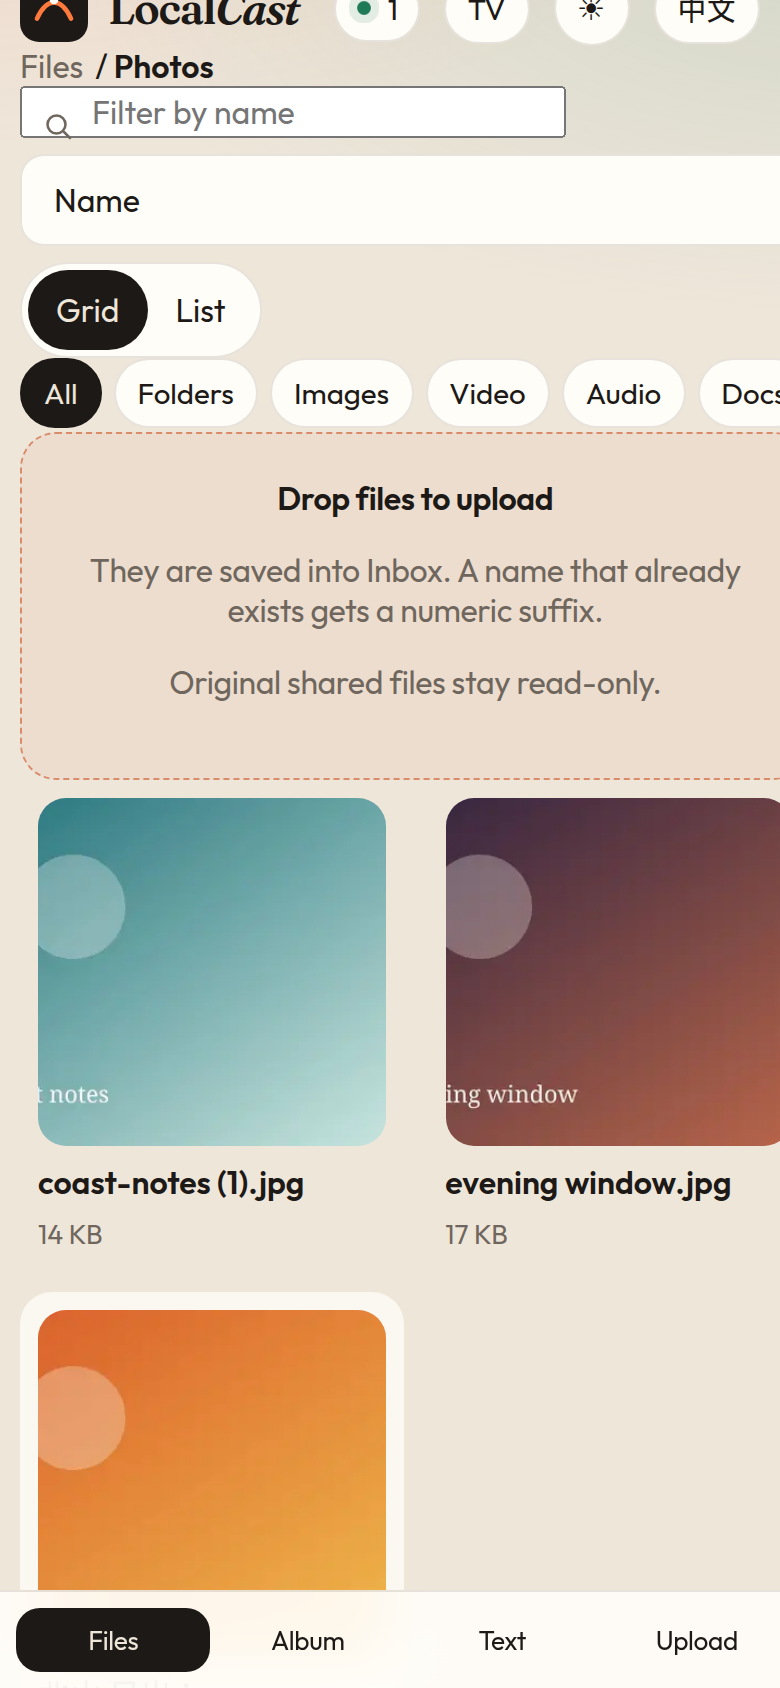
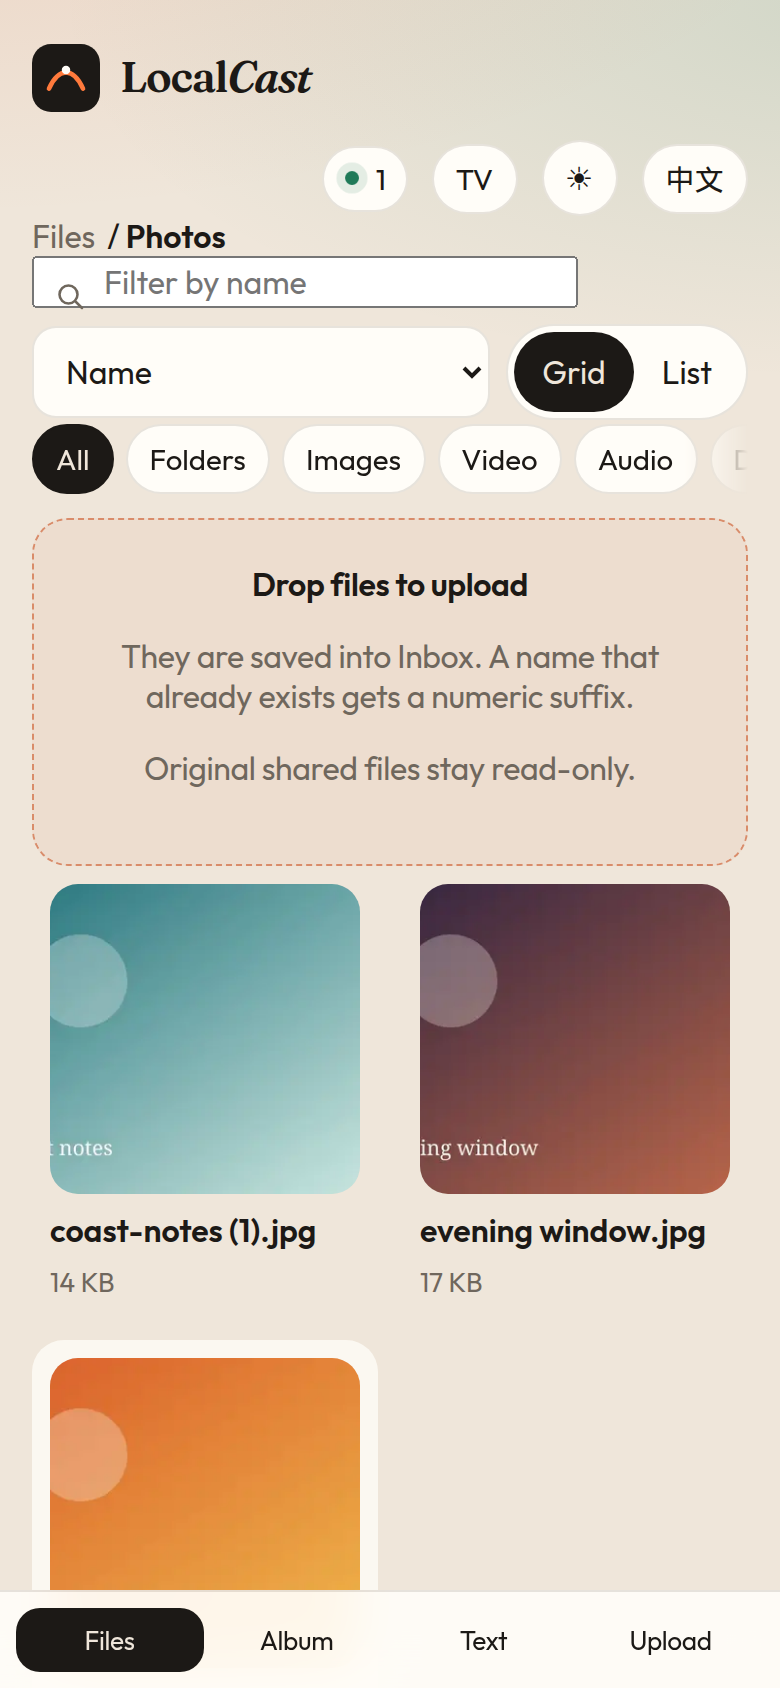
Fit the phone guest view inside the screen.
Stop the header, grid, and lightbox from overflowing a 375px or 390px viewport, give lightbox controls readable contrast, and add dark and TV screenshots.

diff --git a/web/src/styles.css b/web/src/styles.css
@@ -43,7 +43,7 @@
 }
 
 * { box-sizing: border-box; }
-html, body, #root { min-height: 100%; }
+html, body, #root { min-height: 100%; max-width: 100%; }
 body {
   margin: 0;
   font-family: var(--font);
@@ -64,8 +64,8 @@ a { color: inherit; }
 .topbar, .row, .spread, .cluster { display: flex; align-items: center; gap: 12px; }
 .topbar, .spread { justify-content: space-between; }
 .cluster { flex-wrap: wrap; }
-.wordmark { display: flex; align-items: center; gap: 10px; text-decoration: none; }
-.mark { width: 34px; height: 34px; color: var(--ink); }
+.wordmark { display: flex; align-items: center; gap: 10px; min-width: 0; text-decoration: none; line-height: 1; padding-block: 2px; }
+.mark { width: 34px; height: 34px; flex: none; display: block; color: var(--ink); }
 .word { font-family: var(--serif); font-weight: 560; font-size: 1.35rem; letter-spacing: -0.03em; }
 .word em { font-style: italic; font-weight: 560; }
 .kicker { margin: 0; color: var(--accent); font-size: 0.78rem; font-weight: 600; letter-spacing: 0.14em; text-transform: uppercase; }
@@ -93,7 +93,8 @@ h2 { font-family: var(--serif); font-weight: 560; letter-spacing: -0.03em; margi
   padding: 20px;
   backdrop-filter: blur(10px);
 }
-.stack { display: grid; gap: 14px; }
+.stack { display: grid; grid-template-columns: minmax(0, 1fr); gap: 14px; min-width: 0; }
+input[type="file"] { display: block; width: 100%; max-width: 100%; min-width: 0; }
 label span, .field-label { display: block; font-size: 0.82rem; color: var(--muted); margin-bottom: 6px; }
 input[type="text"], input[type="number"], select, textarea {
   width: 100%;
@@ -149,7 +150,7 @@ textarea { min-height: 96px; resize: vertical; }
 .toggle i { position: absolute; top: 3px; left: 3px; width: 22px; height: 22px; border-radius: 50%; background: white; transition: transform 0.15s ease; }
 .toggle[aria-pressed="true"] i { transform: translateX(18px); }
 
-.guest { width: min(1180px, calc(100% - 28px)); margin: 0 auto; padding: 18px 0 40px; }
+.guest { width: min(1180px, calc(100% - 28px)); margin: 0 auto; padding: 22px 0 40px; }
 .guest-grid { display: grid; grid-template-columns: 196px minmax(0, 1fr); gap: 18px; align-items: start; }
 .side { display: grid; gap: 8px; position: sticky; top: 16px; }
 .side a, .side button.nav {
@@ -161,15 +162,15 @@ textarea { min-height: 96px; resize: vertical; }
 .crumbs button { border: 0; background: transparent; padding: 0; color: var(--muted); }
 .crumbs button[aria-current="page"] { color: var(--ink); font-weight: 600; }
 .toolbar { display: flex; flex-wrap: wrap; gap: 8px; align-items: center; }
-.search { position: relative; flex: 1; min-width: 180px; }
+.search { position: relative; flex: 1 1 180px; min-width: 0; max-width: 100%; }
 .search svg { position: absolute; left: 10px; top: 11px; width: 18px; height: 18px; color: var(--muted); }
 .search input { padding-left: 34px; }
-.chips { display: flex; gap: 6px; overflow: auto; padding-bottom: 2px; }
+.chips { display: flex; flex-wrap: wrap; gap: 6px; max-width: 100%; padding: 2px 0 8px; }
 
-.file-grid { display: grid; grid-template-columns: repeat(auto-fill, minmax(148px, 1fr)); gap: 12px; }
+.file-grid { display: grid; grid-template-columns: repeat(auto-fill, minmax(148px, 1fr)); gap: 12px; min-width: 0; }
 .tile {
   display: grid; gap: 8px; text-align: left; padding: 8px; border-radius: 16px;
-  border: 1px solid transparent; background: transparent; width: 100%;
+  border: 1px solid transparent; background: transparent; width: 100%; min-width: 0;
 }
 .tile:hover, .list-row:hover { background: color-mix(in srgb, var(--surface-solid) 75%, transparent); }
 .thumb, .thumb-fallback {
@@ -200,13 +201,21 @@ textarea { min-height: 96px; resize: vertical; }
 .note pre { margin: 8px 0; white-space: pre-wrap; font-family: var(--font); }
 
 .lightbox {
-  position: fixed; inset: 0; z-index: 40; background: #100e0c; color: #f6f1ea;
-  display: grid; grid-template-rows: auto minmax(0, 1fr) auto; overflow: hidden;
+  position: fixed; inset: 0; z-index: 40; width: 100%; max-width: 100vw; background: #100e0c; color: #f6f1ea;
+  display: grid; grid-template-columns: minmax(0, 1fr); grid-template-rows: auto minmax(0, 1fr) auto; overflow: hidden;
 }
 body[data-lightbox="open"] .bottom-nav { display: none; }
-.lightbox header, .lightbox footer { display: flex; justify-content: space-between; gap: 12px; align-items: center; flex-wrap: wrap; padding: 14px 16px; }
-.stage { display: grid; place-items: center; min-height: 0; padding: 8px 54px 16px; }
-.stage img, .stage video, .stage iframe { max-width: min(1100px, 100%); max-height: calc(100vh - 190px); max-height: calc(100dvh - 190px); border: 0; background: #000; object-fit: contain; }
+.lightbox header, .lightbox footer {
+  display: flex; justify-content: space-between; gap: 10px 14px; align-items: center; flex-wrap: wrap;
+  min-width: 0; max-width: 100%; padding: 14px 16px;
+}
+.lightbox header .cluster { display: flex; flex-wrap: wrap; gap: 8px; min-width: 0; }
+.lightbox .btn, .lightbox a.btn {
+  background: #2a2622; color: #f6f1ea; border-color: rgba(246, 241, 234, 0.38);
+}
+.lightbox footer span { min-width: 0; overflow-wrap: anywhere; }
+.stage { position: relative; display: grid; place-items: center; min-width: 0; min-height: 0; width: 100%; max-width: 100%; padding: 8px 48px 12px; overflow: hidden; }
+.stage img, .stage video, .stage iframe { max-width: 100%; width: auto; max-height: calc(100dvh - 210px); border: 0; background: #000; object-fit: contain; }
 .stage iframe { width: min(900px, 100%); height: calc(100vh - 170px); background: white; }
 .stage pre { max-width: 800px; max-height: calc(100vh - 180px); overflow: auto; white-space: pre-wrap; background: #1b1916; padding: 16px; border-radius: 12px; }
 .unsupported { max-width: 460px; text-align: center; display: grid; gap: 10px; justify-items: center; }
@@ -231,14 +240,35 @@ body[data-lightbox="open"] .bottom-nav { display: none; }
 
 @media (max-width: 860px) {
   .lightbox header { flex-direction: column; align-items: stretch; }
-  .lightbox header .cluster { width: 100%; }
-  .lightbox header, .lightbox footer { padding: 12px; }
-  .stage { padding: 8px 12px 16px; }
+  .lightbox header .cluster, .lightbox footer { width: 100%; }
+  .lightbox header, .lightbox footer { padding: 12px 14px; }
+  .stage { padding: 8px 10px 12px; }
   .nav-arrow { width: 36px; height: 48px; }
+  .nav-arrow.prev { left: 4px; }
+  .nav-arrow.next { right: 4px; }
 
-  .layout, .guest-grid { grid-template-columns: 1fr; }
+  .layout, .guest-grid { grid-template-columns: minmax(0, 1fr); }
   .side { display: none; }
-  .guest { width: min(100% - 20px, 860px); padding-bottom: 96px; }
+  .guest {
+    width: 100%;
+    max-width: 100%;
+    min-width: 0;
+    padding: max(20px, env(safe-area-inset-top)) 16px 96px;
+  }
+  .guest > .topbar { flex-wrap: wrap; align-items: center; width: 100%; min-width: 0; }
+  .guest > .topbar .cluster { flex: 1 1 auto; justify-content: flex-end; min-width: 0; }
+  .guest main, .toolbar, .crumbs, .drop, .stack { min-width: 0; max-width: 100%; }
+  .toolbar { display: grid; grid-template-columns: minmax(0, 1fr) auto; }
+  .search { grid-column: 1 / -1; }
+  .toolbar select { min-width: 0; max-width: 100%; }
+  .chips {
+    flex-wrap: nowrap; overflow-x: auto; overscroll-behavior-x: contain;
+    padding: 2px 28px 12px 2px; scrollbar-width: thin; scroll-snap-type: x proximity;
+    mask-image: linear-gradient(to right, #000 calc(100% - 32px), transparent);
+  }
+  .chip { flex: none; scroll-snap-align: start; }
+  .file-grid, .album-grid { grid-template-columns: repeat(2, minmax(0, 1fr)); }
+  .tile b { overflow-wrap: anywhere; }
   .bottom-nav {
     display: grid; grid-template-columns: repeat(4, 1fr); position: fixed; left: 0; right: 0; bottom: 0; z-index: 10;
     background: color-mix(in srgb, var(--surface-solid) 92%, transparent);
@@ -253,7 +283,15 @@ body[data-lightbox="open"] .bottom-nav { display: none; }
 }
 
 body.tv { font-size: 1.2rem; }
-body.tv .file-grid, body.tv .album-grid { grid-template-columns: repeat(auto-fill, minmax(220px, 1fr)); gap: 16px; }
+body.tv .file-grid, body.tv .album-grid { grid-template-columns: repeat(auto-fill, minmax(min(100%, 220px), 1fr)); gap: 16px; }
 body.tv .tile, body.tv .list-row, body.tv .side a { min-height: 64px; }
 body.tv :focus { outline: 4px solid var(--focus); outline-offset: 4px; }
 body.tv .bottom-nav a { font-size: 1rem; padding: 12px 4px; }
+@media (max-width: 520px) {
+  body.tv { font-size: 1.05rem; }
+  body.tv .file-grid, body.tv .album-grid { grid-template-columns: minmax(0, 1fr); }
+  body.tv .guest > .topbar { flex-direction: column; align-items: stretch; }
+  body.tv .guest > .topbar .cluster { width: 100%; justify-content: flex-start; }
+  body.tv .toolbar { grid-template-columns: minmax(0, 1fr); }
+  body.tv .seg { justify-self: start; }
+}

diff --git a/src/app.ts b/src/app.ts
@@ -462,19 +462,17 @@ export async function buildApp(deps: AppDeps): Promise<FastifyInstance> {
     const parentReal = await fs.promises.realpath(path.dirname(real));
     const rootNow = await fs.promises.realpath(room.rootReal);
     const inboxNow = await fs.promises.realpath(inboxReal);
-    const parentOk = canonicalPath(parentReal) === canonicalPath(inboxNow) || isInsideRoot(inboxNow, parentReal);
-    const rootOk = isInsideRoot(rootNow, parentReal) || isInsideRoot(rootNow, real);
+    const [parentStat, inboxStat] = await Promise.all([fs.promises.stat(parentReal), fs.promises.stat(inboxNow)]);
+    const sameFolder = parentStat.dev === inboxStat.dev && parentStat.ino !== 0 && parentStat.ino === inboxStat.ino;
+    const parentOk = sameFolder || canonicalPath(parentReal) === canonicalPath(inboxNow) || isInsideRoot(inboxNow, parentReal);
+    const rootOk = sameFolder || isInsideRoot(rootNow, parentReal) || isInsideRoot(rootNow, real);
     if (!parentOk || !rootOk) {
-      console.error(JSON.stringify({
-        message: 'upload rejected',
-        root: rootNow,
-        inbox: inboxNow,
-        parent: parentReal,
-        file: real,
-        max: room.uploadMaxBytes,
-      }));
+      const body: { error: string; debug?: Record<string, unknown> } = { error: 'forbidden' };
+      if (process.env.LOCALCAST_DEBUG_PATHS === '1') {
+        body.debug = { root: rootNow, inbox: inboxNow, parent: parentReal, file: real, max: room.uploadMaxBytes };
+      }
       await removeQuiet(allocated.full);
-      return reply.code(403).send({ error: 'forbidden' });
+      return reply.code(403).send(body);
     }
     const relPath = `${INBOX_NAME}/${allocated.name}`;
     const saved = await fs.promises.stat(real);

diff --git a/tests/transfer.test.ts b/tests/transfer.test.ts
@@ -1,4 +1,6 @@
 import assert from 'node:assert/strict';
+
+process.env.LOCALCAST_DEBUG_PATHS = '1';
 import fs from 'node:fs';
 import path from 'node:path';
 import { describe, test } from 'node:test';

diff --git a/README.md b/README.md
@@ -8,6 +8,10 @@ Anyone who has the link can read the shared files until you stop the room or it 
 
 ![Phone browser in the shared Photos folder](docs/guest-mobile.png)
 
+![The same phone view in dark mode](docs/guest-mobile-dark.png)
+
+![TV mode on a narrow screen](docs/guest-tv.png)
+
 The address in the screenshots belonged to a demo room that was already stopped. It will not open anything.
 
 ## Install and run
